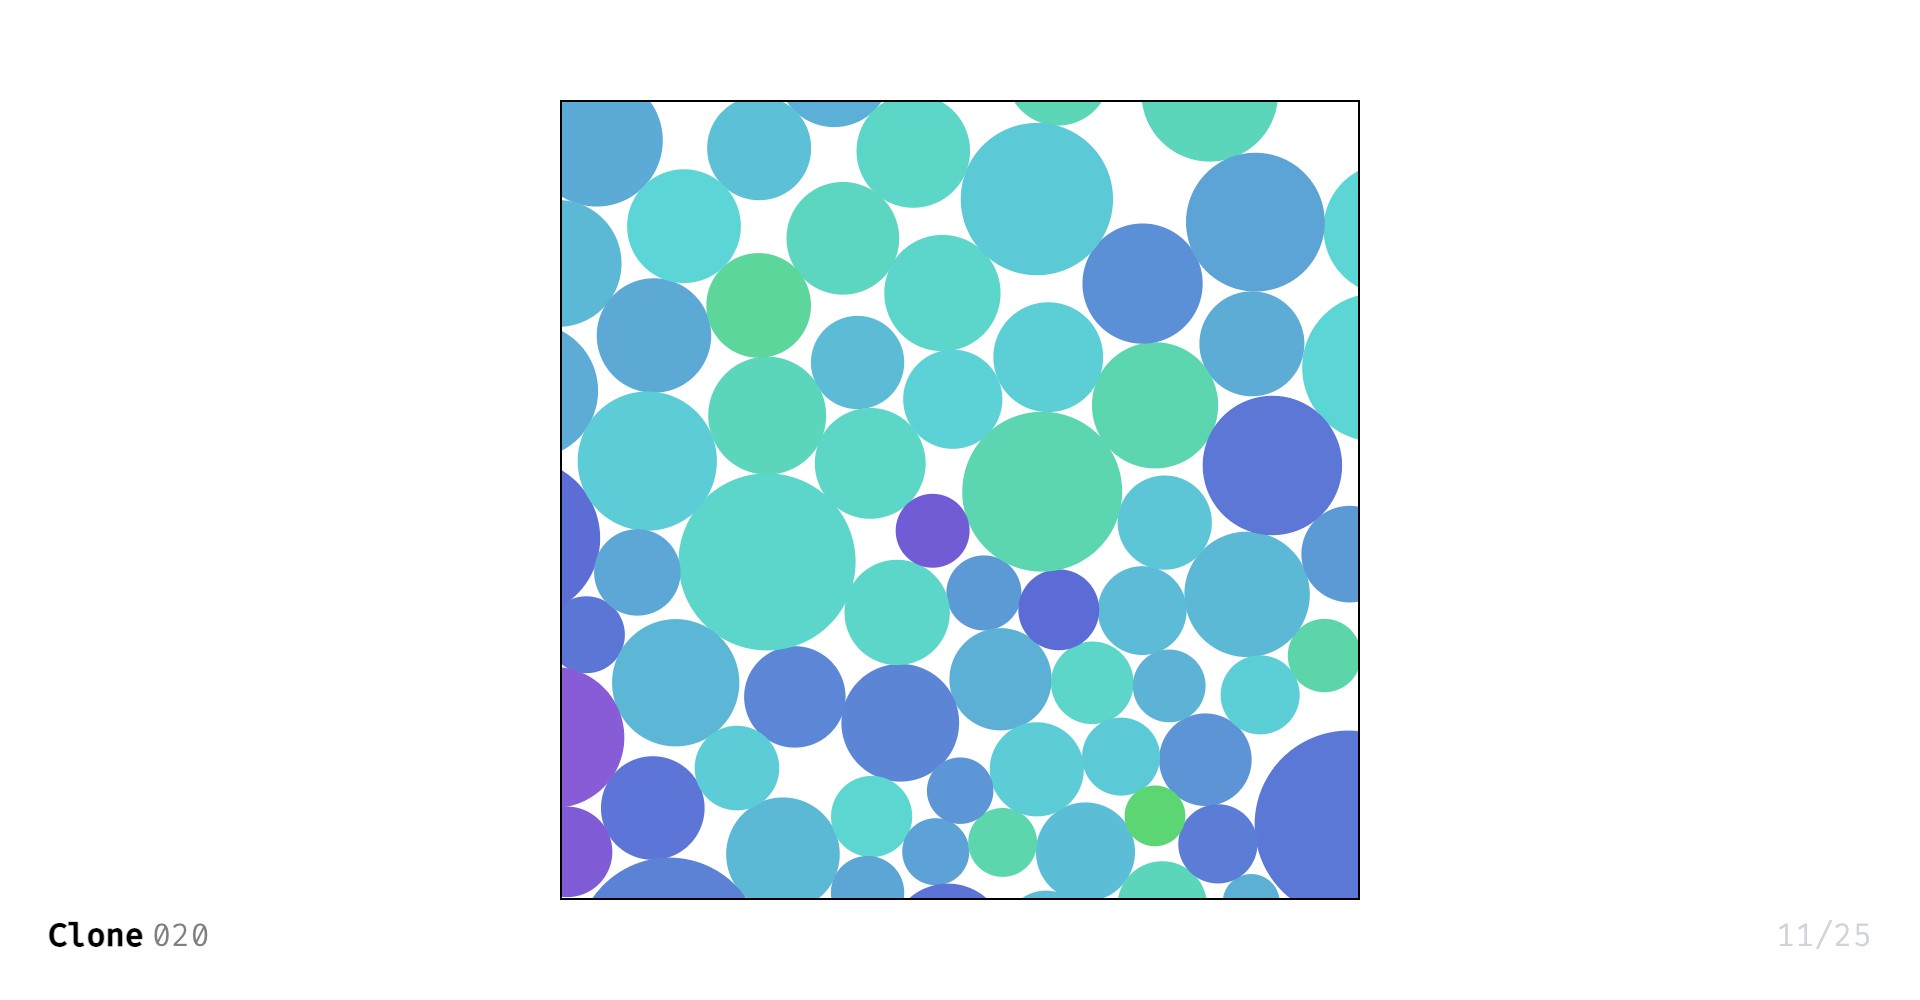
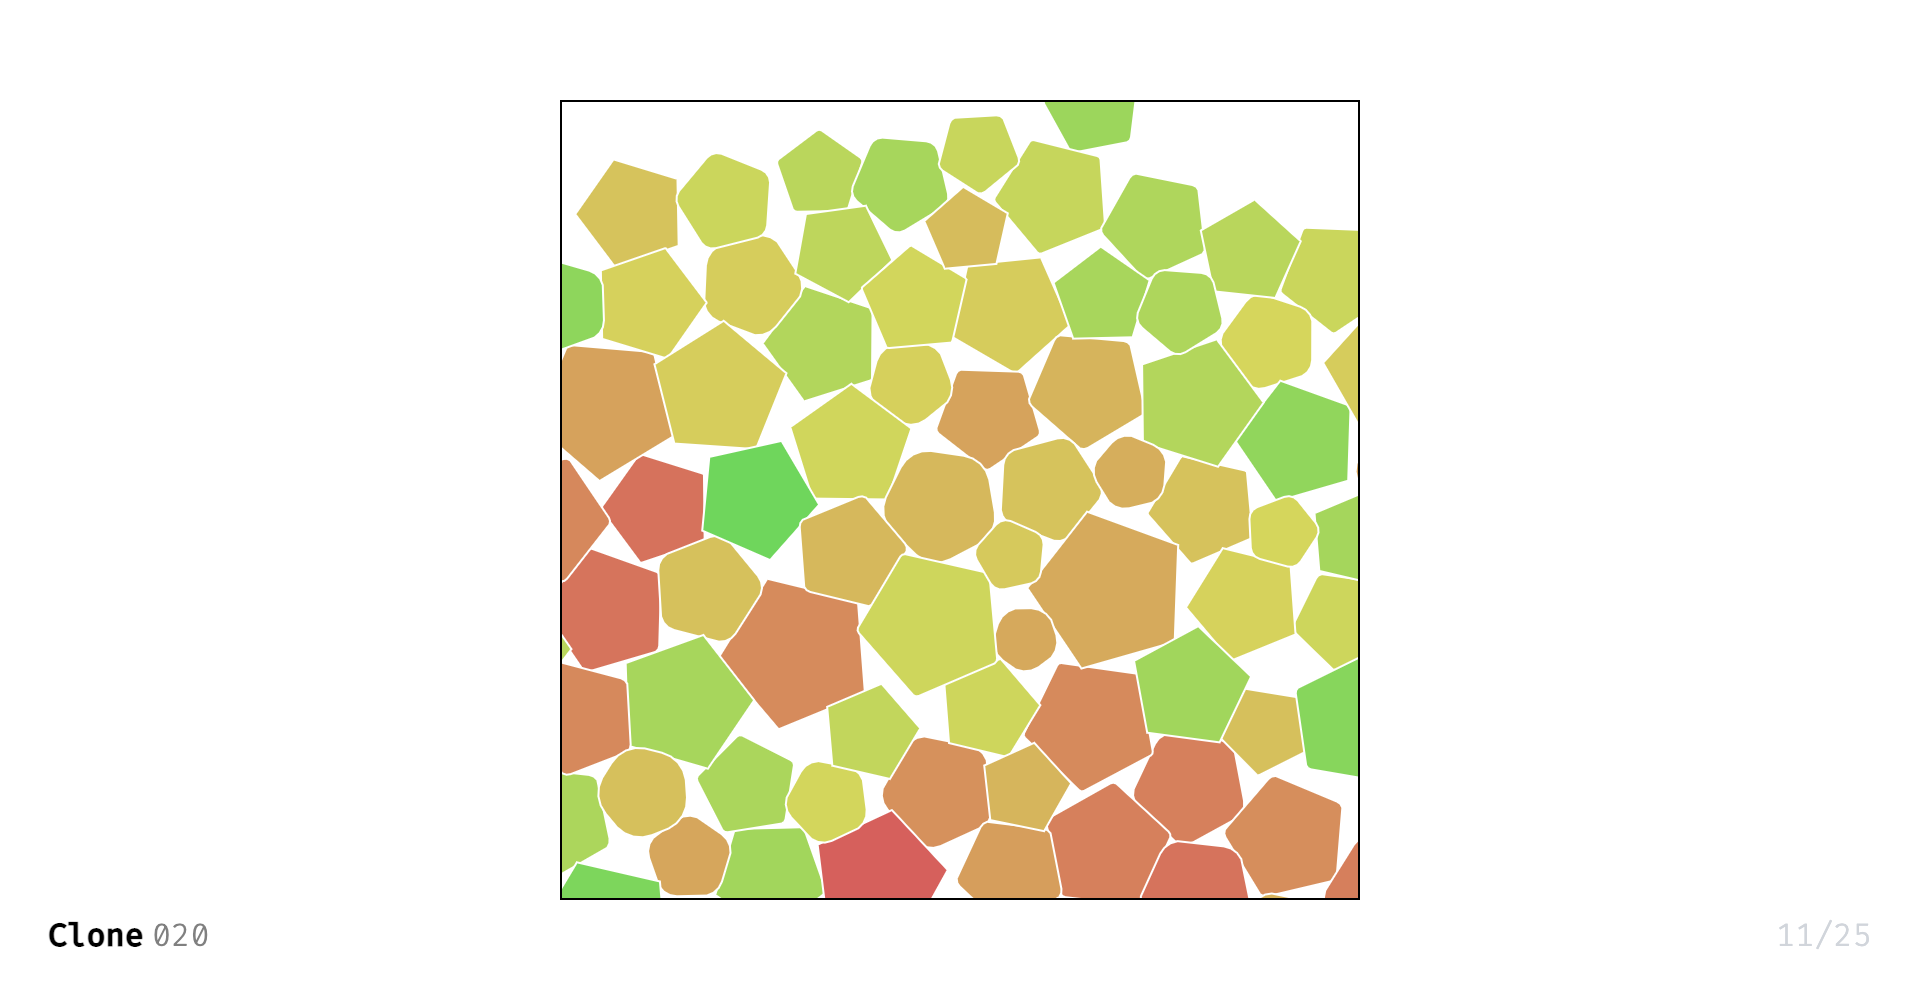
020

diff --git a/src/pages/020.vue b/src/pages/020.vue
@@ -3,15 +3,18 @@ paper
   .box.overflow-hidden(ref='el')
 
 note
-  p drag them, or shake your phone
-  br
-  a.link(@click='toggleShape') toggle shape
+  template(v-if='!seenEgg')
+    p it's not always perfect to make clones.
+  template(v-else)
+    p <b>Congrats!</b>
+    p It's our pet goldfish drew by my girlfriend <a href="https://twitter.com/iiiiiiines_____" target='_blank'>Inès</a>. Hope you had fun with this little game and you can definitely show off a bit on Twitter :)
+    p.text-gray-400 (let me know by pinning @antfu7)
 </template>
 
 <script setup lang='ts'>
 import { ref, onMounted } from 'vue'
 import Matter from 'matter-js'
-import { timestamp } from '@vueuse/core'
+import { clamp, timestamp } from '@vueuse/core'
 // @ts-ignore
 import MatterAttractors from 'matter-attractors'
 import { useRouteQuery } from '@vueuse/router'
@@ -20,13 +23,21 @@ import { hslToRgb, pick, random, range } from '../utils'
 const { Engine, Mouse, MouseConstraint, Render, World, Bodies, Events } = Matter
 Matter.use(MatterAttractors)
 
-const { sin, cos } = Math
+const { sin, cos, max, round } = Math
 
 export const el = ref(null)
 export const shot = useRouteQuery('shot')
 export const debug = useRouteQuery('debug')
 
-interface Ball {hue: number; size: number; body: Matter.Body}
+interface Ball {
+  hue: number
+  size: number
+  body: Matter.Body
+  roundness: number
+  edges: number
+}
+
+export const seenEgg = ref(false)
 
 onMounted(async() => {
   const engine = Engine.create()
@@ -49,30 +60,72 @@ onMounted(async() => {
 
   let balls: Ball[] = []
 
-  const createBall = (hue: number, size: number, x = 200, y = 200) => {
-    const body = Bodies.circle(x, y, size, {
+  const createBall = (hue: number, size: number, roundness = 0.1, edges = 5, x = 200, y = 200) => {
+    const isEgg = ((hue <= 0.02 || hue >= 0.98) && roundness > 0.6)
+
+    const options: any = {
       frictionAir: 0.1,
       friction: 0,
       render: {
         fillStyle: `rgb(${hslToRgb(hue, 0.6, 0.6).join(',')})`,
-        strokeStyle: 'black',
-        lineWidth: 0,
-      },
-    })
+        strokeStyle: 'white',
+        lineWidth: 2,
 
-    const ball = { body, hue, size }
+      },
+    }
+
+    if (isEgg) {
+      options.render.sprite = {
+        texture: '/020-goldfish.png',
+        xScale: size / 400 * 1.3,
+        yScale: size / 400 * 1.3,
+      }
+    }
+
+    const body = roundness >= 0.7
+      ? Bodies.circle(x, y, size, options)
+      : Bodies.polygon(x, y, edges, size, {
+        chamfer: { radius: range(edges).map(i => roundness * size) },
+        ...options,
+      })
+
+    const ball = { body, hue, size, roundness, edges, isEgg }
     balls.push(ball)
     World.add(world, body)
+
+    if (!seenEgg.value && isEgg) {
+      setTimeout(() => {
+        alert('Congarts on finding the easter egg! 🎉 \nThanks for playing!')
+      }, 500)
+      seenEgg.value = true
+    }
 
     return ball
   }
 
   const clone = (ball: Ball) => {
     const r = random(1, -1)
-    const hue = ball.hue + random(0.1, -0.1)
-    const size = ball.size * random(1.2, 0.8)
+    let hue = ball.hue + random(0.07, -0.07)
+    if (hue < 0)
+      hue += 1
+    if (hue > 1)
+      hue -= 1
+
+    const size = ball.size <= 20 ? ball.size * random(1.2, 1) : max(ball.size * random(1.2, 0.8), 20)
     const offset = (ball.size + size) * 0.9
-    return createBall(hue, size, ball.body.position.x + offset * sin(r), ball.body.position.y + offset * cos(r))
+    const roundness = clamp(ball.roundness + random(0.2, -0.2), 0, 0.75)
+    let edges = ball.edges
+    if (roundness >= 0.75)
+      edges = clamp(round(edges * random(2, -2)), 3, 7)
+
+    return createBall(
+      hue,
+      size,
+      roundness,
+      edges,
+      ball.body.position.x + offset * sin(r),
+      ball.body.position.y + offset * cos(r),
+    )
   }
 
   const gravity = 5e-6
